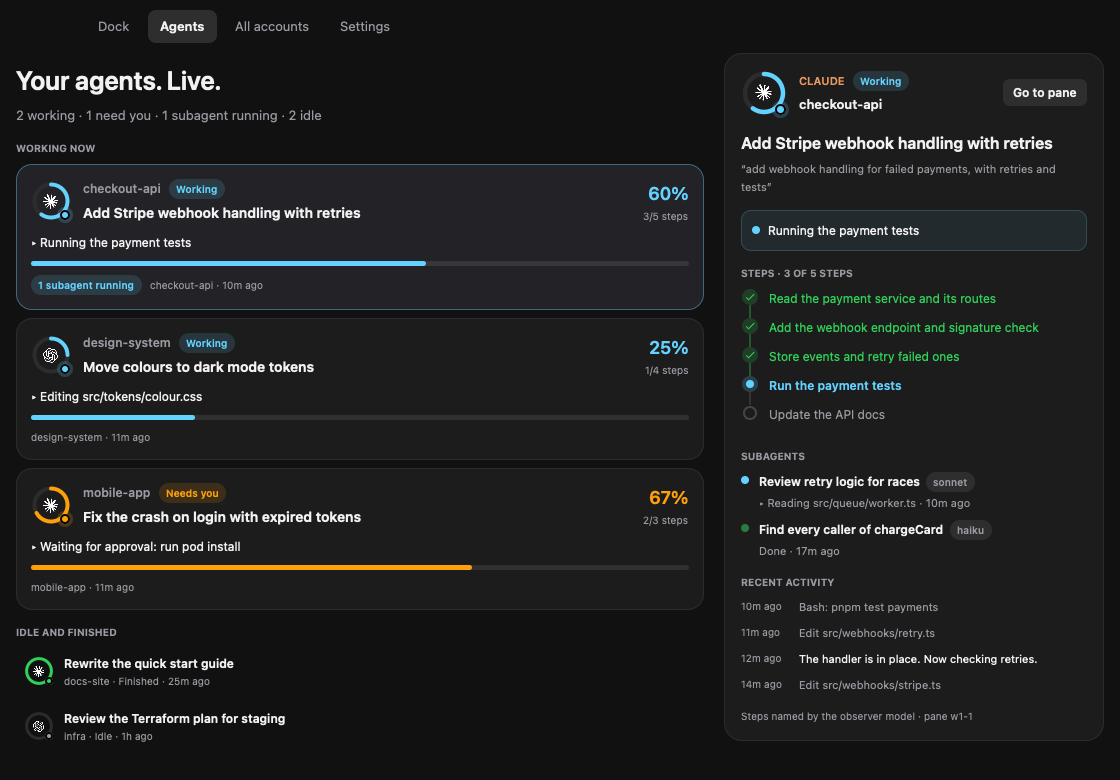
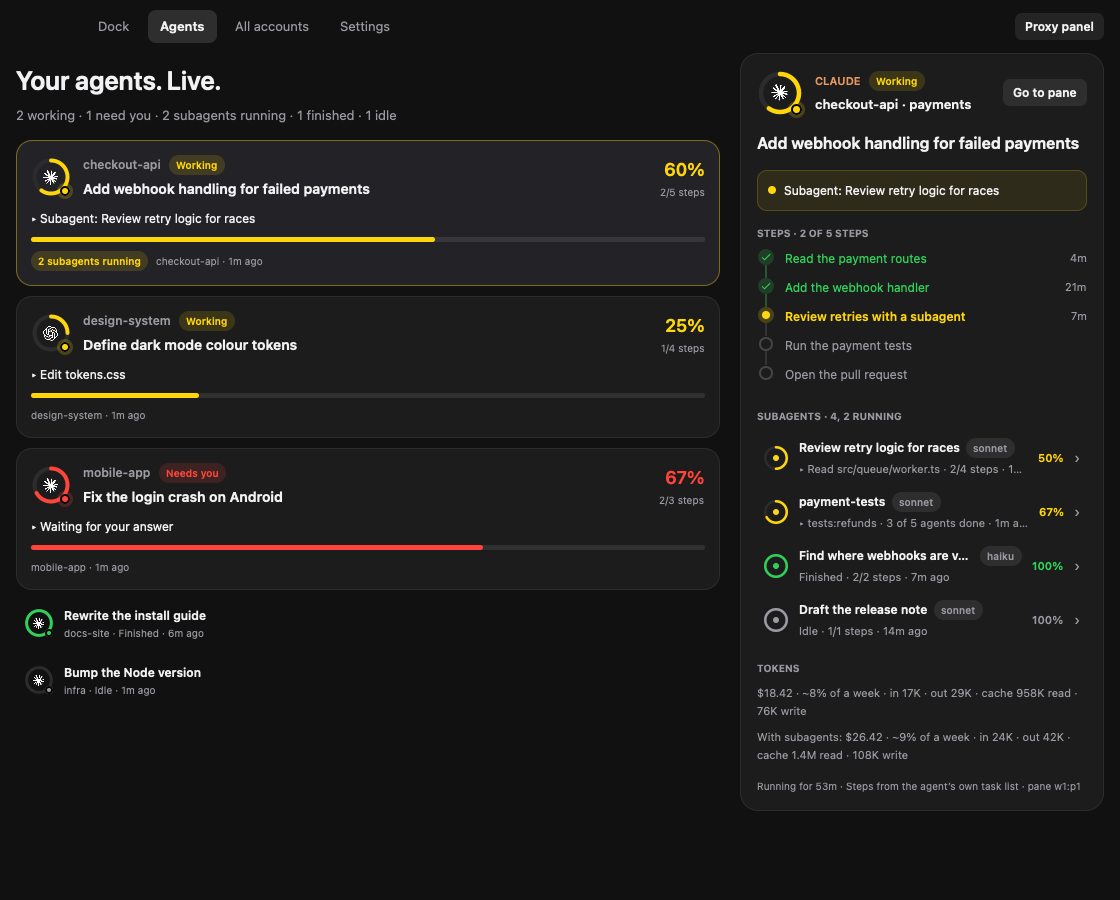
docs: new screenshots from demo data, README and site describe spend per window, pace, timed steps and agent cost

diff --git a/docs/index.html b/docs/index.html
@@ -165,6 +165,7 @@
   .shot { border-radius: var(--radius); border: 1px solid var(--border); overflow: hidden; background: var(--surface); }
   .shot.video video { display: block; width: 100%; height: auto; aspect-ratio: 16 / 9; background: #111; }
   .features { display: grid; grid-template-columns: repeat(3, 1fr); gap: 24px; margin-top: 32px; }
+  #agents .features { grid-template-columns: repeat(2, 1fr); margin-bottom: 32px; }
   .card { background: var(--surface); border: 1px solid var(--border); border-radius: var(--radius); padding: 24px; }
   .card h3 { margin: 0 0 8px; font-size: 18px; }
   .card p { margin: 0; color: var(--muted); font-size: 15px; }
@@ -211,7 +212,7 @@
   @media (max-width: 880px) {
     .herdr { grid-template-columns: 1fr; gap: 32px; }
     .herdr > .shot:last-child { max-width: 180px; justify-self: center; }
-    .features, .downloads, .steps { grid-template-columns: 1fr; }
+    .features, #agents .features, .downloads, .steps { grid-template-columns: 1fr; }
     nav a { margin-left: 14px; }
   }
 </style>
@@ -240,7 +241,7 @@
         <a class="button" href="https://github.com/Mako-L/account-capacity-dock"><svg class="ico" viewBox="0 0 24 24" aria-hidden="true"><path fill="currentColor" d="M12 .297c-6.63 0-12 5.373-12 12 0 5.303 3.438 9.8 8.205 11.385.6.113.82-.258.82-.577 0-.285-.01-1.04-.015-2.04-3.338.724-4.042-1.61-4.042-1.61C4.422 18.07 3.633 17.7 3.633 17.7c-1.087-.744.084-.729.084-.729 1.205.084 1.838 1.236 1.838 1.236 1.07 1.835 2.809 1.305 3.495.998.108-.776.417-1.305.76-1.605-2.665-.3-5.466-1.332-5.466-5.93 0-1.31.465-2.38 1.235-3.22-.135-.303-.54-1.523.105-3.176 0 0 1.005-.322 3.3 1.23.96-.267 1.98-.399 3-.405 1.02.006 2.04.138 3 .405 2.28-1.552 3.285-1.23 3.285-1.23.645 1.653.24 2.873.12 3.176.765.84 1.23 1.91 1.23 3.22 0 4.61-2.805 5.625-5.475 5.92.42.36.81 1.096.81 2.22 0 1.606-.015 2.896-.015 3.286 0 .315.21.69.825.57C20.565 22.092 24 17.592 24 12.297c0-6.627-5.373-12-12-12"/></svg>View source</a>
       </div>
       <p class="hint"><span class="wide-only">Hover the dock on the right edge, just like the app.</span><span class="narrow-only">Tap an account in the dock below, just like the app.</span></p>
-      <div class="hero-shot"><img src="images/all-accounts.png" width="1600" height="1303" alt="All accounts dashboard with cards for Claude, Codex and Cursor accounts"></div>
+      <div class="hero-shot"><img src="images/all-accounts.png" width="1180" height="1240" alt="All accounts dashboard: a card per Claude, Codex and Cursor account with quota bars, what each window used, the pace and the share of the plan price"></div>
     </div>
 
     <section id="video" aria-labelledby="video-title">
@@ -253,12 +254,13 @@
 
     <section aria-labelledby="overview-title">
       <h2 id="overview-title">All accounts, one view</h2>
-      <p class="section-lede">Rings turn yellow at 70%, orange at 85% and red at the limit. Every card shows each quota window, its reset time and today's local token use.</p>
+      <p class="section-lede">Rings turn yellow at 70%, orange at 85% and red at the limit. Every card shows each quota window, its reset time, and what that account used inside the window.</p>
       <div class="features">
         <div class="card"><h3>Quota rings</h3><p>Percent used on the tightest window: 5-hour, weekly or per model. Exhausted and disconnected accounts stay visible.</p></div>
-        <div class="card"><h3>Cost on hover</h3><p>Today's tokens and API-equivalent cost from CodeBurn, with input, output and cache counts.</p></div>
+        <div class="card"><h3>Spend per window</h3><p>Tokens and API-equivalent cost for each account inside its 5-hour window and its week, from the proxy's usage tracker and CodeBurn's prices.</p></div>
+        <div class="card"><h3>Pace and plan price</h3><p>"At this pace, full in 1d 4h" before a window runs out, "Used up in 1d 10h" after. The week also shows its share of the plan's list price.</p></div>
         <div class="card"><h3>Manage accounts</h3><p>Hide an account from Mako, or delete its login from the proxy after a confirmation.</p></div>
-        <div class="card"><h3>Local or remote proxy</h3><p>Use CLIProxyAPI in Docker on this machine, or point Mako at a server with its address and key.</p></div>
+        <div class="card"><h3>Proxy or no proxy</h3><p>Use CLIProxyAPI in Docker or on a server. Without a proxy, Mako reads the Claude Code and Codex CLI logins on this machine.</p></div>
         <div class="card"><h3>Your layout</h3><p>Dock on any screen edge, scale it, round or square icons, labels on or off.</p></div>
         <div class="card"><h3>Smarter routing</h3><p>Mako writes quota readings for the <a href="https://github.com/magoz/cpa-expiring-first">Expiring First</a> proxy plugin, so requests use the quota that resets soonest.</p></div>
         <div class="card"><h3>Private by design</h3><p>Credentials stay with your proxy. The snapshot Mako keeps holds no tokens.</p></div>
@@ -359,7 +361,13 @@ herdr plugin action invoke pin-app-right --plugin mako-capacity</code></pre></di
     <section id="agents" aria-labelledby="agents-title">
       <h2 id="agents-title">Your agents, live</h2>
       <p class="section-lede">A second widget shows every Claude Code and Codex session: the task, the step it is on, its progress and its subagents. Hover over an agent to see its steps as a timeline. Steps come from the agent's own task list, from a one-line report the agent writes, or from a small observer model that reads its latest events.</p>
-      <div class="shot"><img src="images/agents.png" width="1120" height="780" alt="The agents view: three working agents with progress bars, and the card of the first one with its steps, subagents and recent activity" loading="lazy"></div>
+      <div class="features">
+        <div class="card"><h3>Timed steps</h3><p>Each step shows how long it took, and the active one counts up. The card says "Running for 52m" or "Took 3h 20m".</p></div>
+        <div class="card"><h3>Subagents and workflows</h3><p>Running subagents first, then finished, then idle teammates. Hover a subagent to open its own card, all the way down the tree.</p></div>
+        <div class="card"><h3>Tokens and cost</h3><p>Input, output and cache tokens with the API-equivalent cost, for the agent alone and with every subagent.</p></div>
+        <div class="card"><h3>Share of a week</h3><p>About how much of one account's weekly limit the work used, for example "~9% of a week".</p></div>
+      </div>
+      <div class="shot"><img src="images/agents.png" width="1120" height="900" alt="The agents view: live agents with progress bars, and the card of the first one with timed steps, subagents and token cost" loading="lazy"></div>
       <div class="code"><pre><code>herdr plugin action invoke pin-agents-right --plugin mako-capacity
 mako-capacity agents report "Run the tests" --done 2 --total 5</code></pre></div>
     </section>

diff --git a/gpuix-app/agents.tsx b/gpuix-app/agents.tsx
@@ -324,7 +324,7 @@ function SubagentRow({ sub, active, onOpen }: { sub: Subagent; active: boolean; 
         </div>
         <Text size={11} color={C.muted} style={ONE_LINE}>{detail}</Text>
       </div>
-      {sub.progress != null ? <Text size={11} weight={600} color={sub.running ? LIVE : C.green} style={{ flexShrink: 0 }}>{`${sub.progress}%`}</Text> : null}
+      {sub.progress != null ? <Text size={11} weight={600} color={sub.running ? LIVE : sub.idle ? C.muted : C.green} style={{ flexShrink: 0 }}>{`${sub.progress}%`}</Text> : null}
       <Text size={14} color={C.muted} style={{ flexShrink: 0 }}>›</Text>
     </Button>
   )

diff --git a/scripts/demo_data.py b/scripts/demo_data.py
@@ -1,0 +1,144 @@
+#!/usr/bin/env python3
+"""Write demo accounts and agents for screenshots: python3 scripts/demo_data.py [folder=/tmp/demo]
+
+Every name, email and number here is made up. The screenshots in docs/ use only this data.
+Then: cd gpuix-app && bun screenshot.ts /tmp/demo/snapshot.json dock,accounts,settings,agents
+"""
+import json
+import sys
+import time
+from pathlib import Path
+
+H, D = 3600, 86400
+now = time.time()
+out = Path(sys.argv[1] if len(sys.argv) > 1 else '/tmp/demo')
+
+
+def window(label, used, reset_hours, cost=None, tokens=None, plan=None, used_up=None):
+    length = 5 * H if label == '5-hour' else 7 * D
+    start = now + reset_hours * H - length
+    w = {'label': label, 'used': used, 'resetAt': now + reset_hours * H}
+    if cost is not None:
+        w['spent'] = {'tokens': tokens, 'costUsd': cost, **({'planPercent': plan} if plan is not None else {})}
+    elapsed = now - start
+    # The same pace rule as collector.window_usage.
+    if 0 < used < 100 and elapsed > 0:
+        left = elapsed * (100 - used) / used
+        w['fullIn'] = left if now + left < w['resetAt'] else None
+    if used_up:
+        w['usedUpIn'] = used_up * H
+    return w
+
+
+def usage(cost, tokens, scope='account'):
+    return {'inputTokens': tokens * 0.004, 'outputTokens': tokens * 0.006, 'cacheReadTokens': tokens * 0.93,
+            'cacheWriteTokens': tokens * 0.06, 'tokens': tokens, 'costUsd': cost, 'unpricedModels': 0,
+            'scope': scope, 'status': 'live', 'fetchedAt': now, 'message': '', 'estimated': False}
+
+
+def account(i, provider, title, email, windows, plan='', status='live', message='', cost=None, tokens=None, source='CLI proxy'):
+    a = {'id': f'demo-{i}', 'provider': provider, 'email': email, 'title': title, 'plan': plan, 'source': source,
+         'status': status, 'message': message, 'fetchedAt': now, 'nextPollAt': now + 300, 'onDemandUsd': None,
+         'windows': windows}
+    if provider == 'Claude' and status == 'live':
+        a['subscription'] = {'name': 'Max 20x', 'monthlyUsd': 200}
+    if cost is not None:
+        a['localUsage'] = usage(cost, tokens)
+    return a
+
+
+accounts = [
+    account(1, 'Claude', 'studio', 'studio@example.com', [
+        window('5-hour', 22, 3.1, 18.40, 31e6), window('Weekly', 38, 109, 164.20, 288e6, plan=356)], cost=41.87, tokens=48.2e6),
+    account(2, 'Claude', 'research', 'research@example.com', [
+        window('5-hour', 64, 1.3, 61.10, 104e6), window('Weekly', 81, 46, 402.75, 690e6, plan=873)], cost=96.30, tokens=170e6),
+    account(3, 'Claude', 'side-project', 'side@example.com', [
+        window('5-hour', 100, 0.5, 74.90, 121e6), window('Weekly', 100, 14, 512.60, 905e6, plan=1111, used_up=34)],
+        status='rateLimited', message='At limit', cost=88.12, tokens=150e6),
+    account(4, 'Claude', 'archive', 'archive@example.com', [], status='loginRequired', message='Sign in again in the provider app or proxy.'),
+    account(5, 'Codex', 'Pro Max', 'builder@example.com', [window('Weekly', 12, 149, 22.15, 41e6)], plan='Pro Max', cost=9.80, tokens=17e6),
+    account(6, 'Codex', 'Pro', 'reviewer@example.com', [
+        window('5-hour', 47, 2.4, 6.30, 12e6), window('Weekly', 73, 59, 51.90, 96e6)], plan='Pro', cost=14.60, tokens=26e6),
+    account(7, 'Cursor', 'cursor', 'dev@example.com', [
+        {'label': 'Cursor Models', 'used': 28, 'resetAt': now + 400 * H},
+        {'label': 'Other Models', 'used': 9, 'resetAt': now + 400 * H},
+        {'label': 'Grok Bot', 'used': 3, 'resetAt': now + 20 * H}], plan='Pro', source='Cursor CLI'),
+]
+accounts[6]['localUsage'] = usage(3.25, 5.1e6, scope='provider')
+
+
+def tokens(cost, week):
+    return {'input': cost * 900, 'output': cost * 1600, 'cacheRead': cost * 52000, 'cacheWrite': cost * 4100, 'cost': cost, 'weekPercent': week}
+
+
+def step(title, status, took=None, since=None):
+    s = {'title': title, 'status': status}
+    if took:
+        s['took'] = took
+    if since:
+        s['since'] = now - since
+    return s
+
+
+def sub(id, name, description, running=False, idle=False, minutes=12, step_now=None, steps=(), cost=1.0, children=(), kind='agent', phase=None, summary=None, model='sonnet'):
+    done = sum(s['status'] == 'done' for s in steps)
+    return {'id': id, 'name': name, 'description': description, 'model': model, 'running': running, 'idle': idle,
+            'step': step_now, 'updated': now - (20 if running else minutes * 60 / 3), 'started': now - minutes * 60,
+            'said': None, 'activity': [], 'children': list(children), 'kind': kind, 'phase': phase, 'summary': summary,
+            'steps': list(steps), 'progress': round(100 * done / len(steps)) if steps else (None if running else 100),
+            'usage': tokens(cost, round(cost / 22, 1))}
+
+
+checkout_subs = [
+    sub('s1', 'code-reviewer', 'Review retry logic for races', running=True, minutes=6, step_now='Read src/queue/worker.ts', cost=2.84, steps=[
+        step('Find every retry path', 'done', took=95), step('Check the lock around retries', 'done', took=140),
+        step('Read the worker loop', 'active', since=110), step('Write findings', 'pending')],
+        children=[sub('s1a', 'fork', 'Check the lock around retries', minutes=3, cost=0.41, steps=[step('Read lock.ts', 'done', took=48), step('Trace callers', 'done', took=71)])]),
+    sub('wf1', 'payment-tests', 'Run the payment test matrix', running=True, minutes=9, kind='workflow', summary='3 of 5 agents done', cost=4.12,
+        step_now='tests:refunds', steps=[step('Build', 'done', took=180), step('Unit', 'done', took=210), step('Integration', 'active', since=150)],
+        children=[sub('w1', 'tests:api', 'API tests', minutes=4, cost=0.9, phase='Unit'), sub('w2', 'tests:refunds', 'Refund tests', running=True, minutes=2, cost=0.7, phase='Integration')]),
+    sub('s2', 'Explore', 'Find where webhooks are verified', minutes=18, cost=0.66, model='haiku', steps=[
+        step('Search for signature checks', 'done', took=40), step('Read the webhook router', 'done', took=65)]),
+    sub('s3', 'docs-writer', 'Draft the release note', idle=True, minutes=41, cost=0.38, steps=[step('Draft the note', 'done', took=210)]),
+]
+
+
+def agent(id, name, status, task, progress, steps, subs=(), cost=0.0, week=0.0, minutes=30, now_step=None, agent='claude', tab=None):
+    own = tokens(cost, week)
+    total = tokens(cost + sum(s['usage']['cost'] for s in subs), round(week + sum(s['usage']['weekPercent'] for s in subs), 1))
+    done = sum(s['status'] == 'done' for s in steps)
+    return {'id': id, 'pane': id, 'agent': agent, 'name': name, 'tabName': tab, 'status': status, 'title': task,
+            'cwd': f'/work/{name}', 'project': name, 'task': task, 'prompt': None, 'now': now_step, 'said': None,
+            'steps': steps, 'activity': [], 'updated': now - 15, 'started': now - minutes * 60, 'source': 'tasks',
+            'progress': progress, 'stepCount': [done, len(steps)] if steps else None, 'subagents': list(subs),
+            'usage': own, 'totalUsage': total}
+
+
+agents = [
+    agent('w1:p1', 'checkout-api', 'working', 'Add webhook handling for failed payments', 60, [
+        step('Read the payment routes', 'done', took=240), step('Add the webhook handler', 'done', took=1260),
+        step('Review retries with a subagent', 'active', since=380), step('Run the payment tests', 'pending'), step('Open the pull request', 'pending')],
+        checkout_subs, cost=18.42, week=8.4, minutes=52, now_step='Subagent: Review retry logic for races', tab='payments'),
+    agent('w2:p1', 'design-system', 'working', 'Define dark mode colour tokens', 25, [
+        step('List every colour in use', 'done', took=410), step('Define the tokens', 'active', since=95),
+        step('Swap the old values', 'pending'), step('Check contrast', 'pending')], cost=6.10, week=2.8, minutes=21,
+        now_step='Edit tokens.css', agent='codex'),
+    agent('w3:p1', 'mobile-app', 'blocked', 'Fix the login crash on Android', 67, [
+        step('Reproduce the crash', 'done', took=520), step('Find the null token', 'done', took=330), step('Ask before the schema change', 'active', since=240)],
+        cost=9.75, week=4.4, minutes=38, now_step='Waiting for your answer'),
+    agent('w4:p1', 'docs-site', 'done', 'Rewrite the install guide', 100, [
+        step('Read the old guide', 'done', took=180), step('Write the new steps', 'done', took=900), step('Check every link', 'done', took=120)],
+        cost=3.20, week=1.5, minutes=25),
+    agent('w5:p1', 'infra', 'idle', 'Bump the Node version', None, [], cost=0.0, week=0.0, minutes=90),
+]
+for a in agents:
+    if a['status'] == 'done':
+        a['updated'] = a['started'] + 20 * 60
+
+(out / 'home/.mako-capacity').mkdir(parents=True, exist_ok=True)
+(out / 'snapshot.json').write_text(json.dumps({'updatedAt': now, 'accounts': accounts, 'hidden': [], 'warning': ''}, indent=1))
+(out / 'agents.json').write_text(json.dumps({'at': now, 'agents': agents, 'observer': True}, indent=1))
+settings = out / 'home/.mako-capacity/settings.json'
+if not settings.exists():
+    settings.write_text(json.dumps({'SHOW_IDLE_AGENTS': '1'}))
+print('wrote', out)

diff --git a/README.md b/README.md
@@ -15,7 +15,7 @@ bubbles inspired by [CodeBurn](https://github.com/getagentseal/codeburn).
   <img src="docs/images/dock.png" alt="The dock with a hover card: rings show percent used per account" width="420">
 </p>
 
-![All accounts: a card per account with quota bars, reset times and today's local usage](docs/images/all-accounts.png)
+![All accounts: a card per account with quota bars, reset times, what each window used, the pace and the share of the plan price](docs/images/all-accounts.png)
 
 Screenshots use demo accounts. Downloads for macOS, Windows and Linux are on the
 [releases page](https://github.com/Mako-L/account-capacity-dock/releases/latest).
@@ -192,7 +192,7 @@ account rotation, and Cursor traffic proxying are not provided by this stack.
 Claude and Codex can show multiple accounts because the proxy keeps a local
 account inventory. Refresh the dock after signing in.
 
-## Token usage and dollar cost on hover
+## Token usage and dollar cost
 
 Every account's hover bubble and overview card include **today's local token
 usage** and **API-equivalent USD cost** from CodeBurn, with separate input, output,
@@ -203,31 +203,21 @@ on-demand spend is shown separately for its billing cycle.
 **Per account:** if your CLIProxyAPI runs the
 [CAP Token Usage Tracker](https://github.com/AITNR/cap-token-usage-tracker) plugin,
 each Claude and Codex card shows the tokens and cost of **that account** over the
-last 24 hours. Under each quota bar, the card also shows what the account used inside
-that window: the current 5-hour window and the current week, so you can compare
-spend with each limit. For Claude, the weekly line also compares that spend with one
-week of the plan's list price (Pro $20, Max 5x $100, Max 20x $200 a month). For
-example, "1,200% of the plan price" means the week used 12 weeks of the plan's price
-at API rates. Codex shows no plan price yet. When a window reaches 100%, the card also says how long
-it took: "Used up in 1d 10h" counts from the window start to the last hour in which
-the account still served requests. Before that, if the current pace would use up the
-window before it resets, the card says "At this pace, full in 1d 2h". The pace is the
-share used so far, divided by the time since the window started.
-
-Agent and subagent cards also show about how much of one account's weekly limit the
-work used, for example "~15% of a week". The dock works out what a full week costs
-from your proxy accounts: each account's weekly spend, divided by the share of the
-week it used. It takes the middle value of all accounts. The model mix changes the
-real limit, so treat this as an estimate.
-
-Each step shows how long it took, and the active step counts up. Steps from Claude's
-todo list and Codex's plan take their times from the transcript. Steps named by the
-observer take their times from when the dock first saw them, about every 6 s.
-
-Agent and subagent cards show how long the work ran: "Running for 12m" while it
-works, and "Took 3h 20m" (from start to last write) once it ends. The plugin counts every request against the login that served it.
+last 24 hours. The plugin counts every request against the login that served it.
 The cost uses CodeBurn's price list, at base API rates. Without the plugin, the
 cards fall back to CodeBurn's totals below.
+
+Under each quota bar, the card also shows what the account used inside that window:
+
+- **Spend:** "Used 690.0M tokens · $402.75" for the current 5-hour window or week.
+- **Plan price:** for Claude, the week compares that spend with one week of the
+  plan's list price (Pro $20, Max 5x $100, Max 20x $200 a month). For example,
+  "1,200% of the plan price" means the week used 12 weeks of the plan's price at
+  API rates. Codex shows no plan price yet.
+- **Pace:** "At this pace, full in 1d 4h" if the share used so far, divided by the
+  time since the window started, would fill the window before it resets.
+- **Used up:** "Used up in 1d 10h" once a window reaches 100%. It counts from the
+  window start to the last hour in which the account still served requests.
 
 CodeBurn reads session logs on this machine. Those logs do not identify which
 proxy account handled a request, so the cards clearly say **all local accounts**:
@@ -357,7 +347,8 @@ pane. Recent activity (the latest tool calls and messages) is hidden by default:
 turn it on with **Show recent activity** in Settings or the dock menu.
 
 Agents keep the order in which they first appeared, so a refresh never moves them.
-The card lists every subagent of the session, running and finished. A hover on a
+The card lists every subagent of the session: running ones first, then finished ones,
+then idle teammates (subagents that wait for their next message). A hover on a
 subagent opens its card beside the first one, and so on through nested subagents and
 workflow runs. Each subagent has its own steps and a progress ring. A workflow run
 groups its agents by phase and shows how many in each phase are done. A long list of
@@ -384,7 +375,7 @@ mako-capacity ui agents             # the same view in a window
 mako-capacity agents                # a plain list in the terminal
 ```
 
-![The agents view: live agents with their steps, subagents and activity](docs/images/agents.png)
+![The agents view: live agents with timed steps, subagents, tokens and cost](docs/images/agents.png)
 
 The steps come from the first source that has them:
 
@@ -401,6 +392,22 @@ The steps come from the first source that has them:
 
 Without any of these, the widget still shows the live tool calls. The agents widget
 only reads files, `ps` and Herdr's socket. It never changes an agent.
+
+Each card also shows input, output and cache tokens with the API-equivalent cost,
+priced with CodeBurn's price list. The agent card adds a total with every subagent.
+
+Agent and subagent cards also show about how much of one account's weekly limit the
+work used, for example "~15% of a week". The dock works out what a full week costs
+from your proxy accounts: each account's weekly spend, divided by the share of the
+week it used. It takes the middle value of all accounts. The model mix changes the
+real limit, so treat this as an estimate.
+
+Each step shows how long it took, and the active step counts up. Steps from Claude's
+todo list and Codex's plan take their times from the transcript. Steps named by the
+observer take their times from when the dock first saw them, about every 6 s.
+
+Agent and subagent cards show how long the work ran: "Running for 12m" while it
+works, and "Took 3h 20m" (from start to last write) once it ends.
 
 ### Text widget
 
